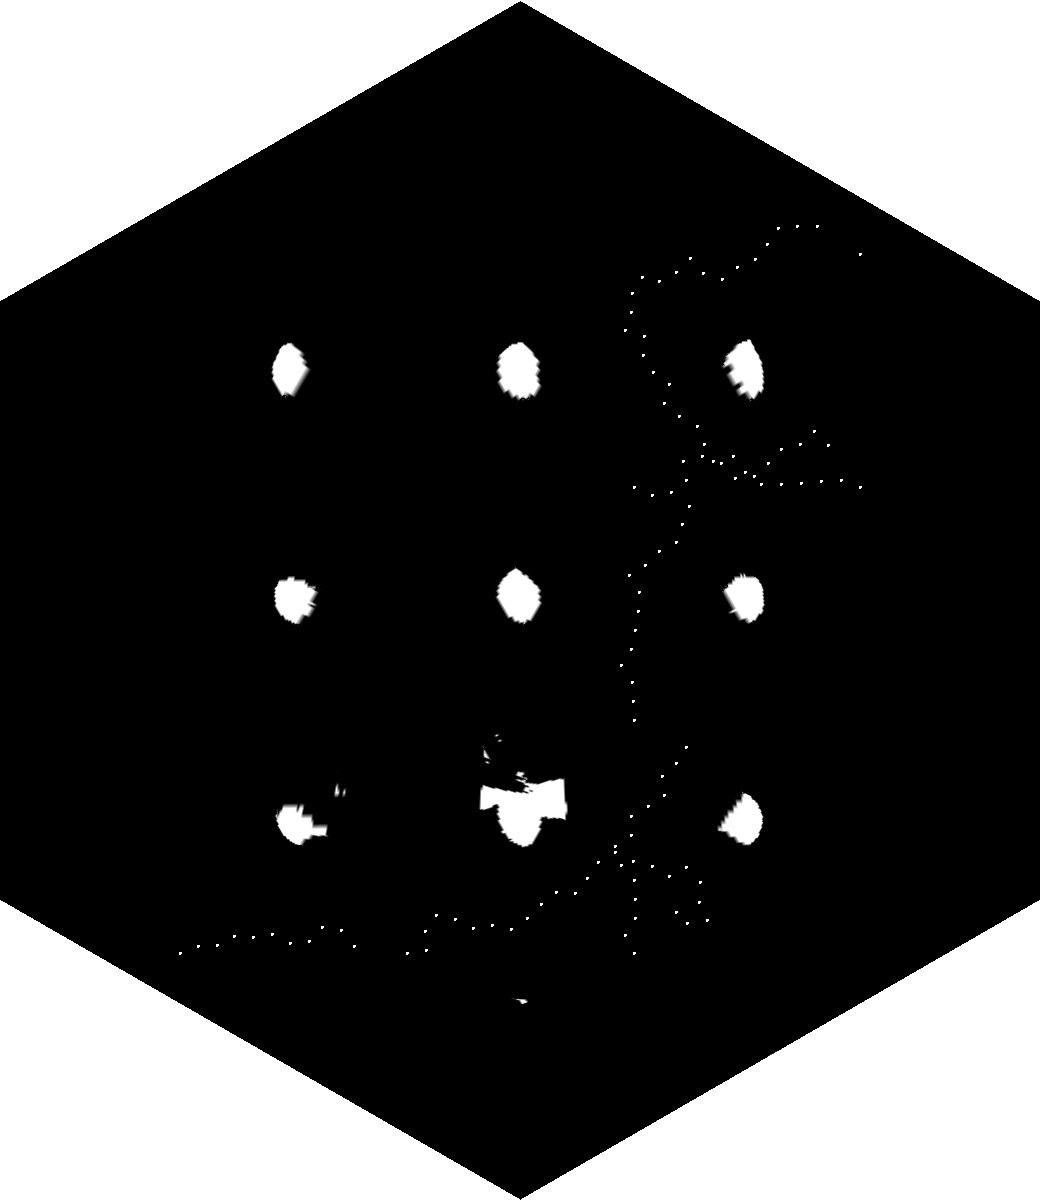
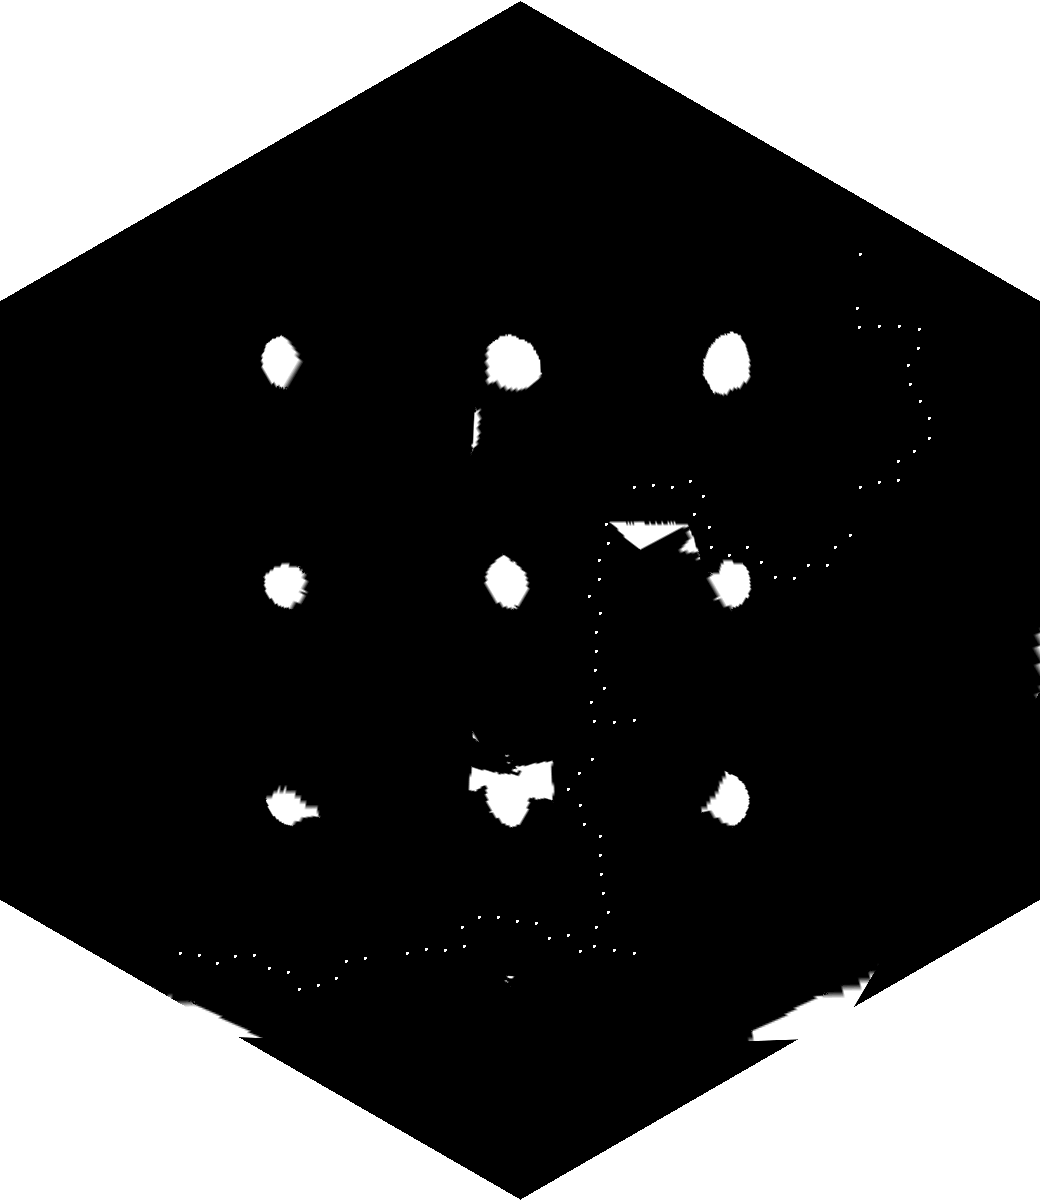
update code

diff --git a/pp/path_planning/src/planning.cpp b/pp/path_planning/src/planning.cpp
@@ -15,10 +15,10 @@
 //#define global_point_distance 1.18   
 
 #define pixel_distance 0.005
-#define random_distance 0.02
+#define random_distance 0.06
 #define choose_parent_and_rewire_distance 0.1
-#define obstacle_check_distance 0.005
-#define goal_point_reach_distance 0.04
+#define obstacle_check_distance 0.06
+#define goal_point_reach_distance 0.1
 
 using namespace std;
 
@@ -70,12 +70,12 @@ class Planning{
 
         Planning(){
             
-            global_path_pub = nh.advertise<nav_msgs::OccupancyGrid>("path",2);
-            start_goal_obstacle_point_sub = nh.subscribe("obstacle_point", 2, &Planning::StartGoalObstaclePointCallback, this);
+            global_path_pub = nh.advertise<nav_msgs::OccupancyGrid>("/path",2);
+            start_goal_obstacle_point_sub = nh.subscribe("/obstacle_point", 2, &Planning::StartGoalObstaclePointCallback, this);
             //map_sub = nh.subscribe("map", 2, &Planning::MapCallback, this);
-            path_pub = nh.advertise<nav_msgs::Path>("tracker_path", 2);
-            current_position_sub = nh.subscribe("current_position", 2, &Planning::CurrentPositionCallback, this);
-            tracker_goal_point_pub = nh.advertise<geometry_msgs::Pose>("tracker_goal_point", 2);
+            path_pub = nh.advertise<nav_msgs::Path>("/tracker_path", 2);
+            current_position_sub = nh.subscribe("/current_position", 2, &Planning::CurrentPositionCallback, this);
+            tracker_goal_point_pub = nh.advertise<geometry_msgs::Pose>("/tracker_goal_point", 2);
 /*
             for (int i = 0; i < 16; ++i){
                 global_points[i].x = (i % 4) * global_point_distance + boundary_distance_x;
@@ -209,7 +209,7 @@ class Planning{
         }
 
         void read_map(){
-            cv::Mat img = cv::imread("/home/lee/catkin_ws/src/zero_maker/computer_vision/global_map_generator/global_map.png", CV_LOAD_IMAGE_GRAYSCALE);
+            cv::Mat img = cv::imread("/home/jeongwoooh/catkin_ws/src/zero_maker/computer_vision/global_map_generator/global_map.png", CV_LOAD_IMAGE_GRAYSCALE);
             if (!img.empty()){
                 //cv::imshow("img", img);
                 //cv2::waitKey(0);
@@ -261,7 +261,7 @@ class Planning{
                 //new_img.at<cv::Vec3b>(100, 200)[1] = 0;
                 //new_img.at<cv::Vec3b>(100, 200)[1] = 0;
 
-                //cv::imwrite("/home/lee/catkin_ws/src/zero_maker/computer_vision/global_map_generator/new_map.png", img);
+                //cv::imwrite("/home/jeongowoooh/catkin_ws/src/zero_maker/computer_vision/global_map_generator/new_map.png", img);
                 //cv::waitKey(0);
             }
 
@@ -275,10 +275,9 @@ class Planning{
             current_state.pixel_y = int(msg.position.x / pixel_distance) + 600;
             
             int min_index;
-            int min_len;
+            int min_len = 100000;
             
             for (int i = 0; i < total_path_static.size(); ++i){
-                int min_len = 1000000;
                 if (distance(total_path_static[i], current_state) < min_len){
                     min_index = i;
                     min_len = distance(total_path_static[i], current_state);
@@ -290,8 +289,9 @@ class Planning{
             int goal_plus_index = 2;
 
             geometry_msgs::Pose mmsg;
-
+            cout << min_index << " " << goal_plus_index <<" " << total_path_static.size() <<endl;
             if ( min_index + goal_plus_index < total_path_static.size()){
+		    cout<<1<<endl;
                 mmsg.position.x = (total_path_static[min_index + goal_plus_index].pixel_y - 600) * pixel_distance;
                 mmsg.position.y = (520 - total_path_static[min_index + goal_plus_index].pixel_x) * pixel_distance;
                 tracker_goal_point_pub.publish(mmsg);
@@ -384,7 +384,7 @@ class Planning{
                 check = 1;
             }
 
-            cv::Mat img = cv::imread("/home/lee/catkin_ws/src/zero_maker/computer_vision/global_map_generator/global_map.png", CV_LOAD_IMAGE_GRAYSCALE);
+            cv::Mat img = cv::imread("/home/jeongwoooh/catkin_ws/src/zero_maker/computer_vision/global_map_generator/global_map.png", CV_LOAD_IMAGE_GRAYSCALE);
 
             for (int i = 0; i < total_path.size(); ++i){
                 cout << total_path[i].pixel_x << " " << total_path[i].pixel_y << " "  << total_path[i].ccost << endl;
@@ -409,7 +409,7 @@ class Planning{
                 //msg.poses.push_back(p);
             }
 
-            cv::imwrite("/home/lee/catkin_ws/src/zero_maker/computer_vision/global_map_generator/path.png", img);
+            cv::imwrite("/home/jeongwoooh/catkin_ws/src/zero_maker/computer_vision/global_map_generator/path.png", img);
 
             //path_pub.publish(msg);
 /*
@@ -612,8 +612,7 @@ int main(int argc, char *argv[]){
     while (ros::ok()){
         //planning.publish_path();
         planning.local_path_planning();
-        ros::spinOnce();
-        loop_rate.sleep();
+        ros::spin();
     }
     return 0;
 }

diff --git a/pp/path_planning/src/controller.cpp b/pp/path_planning/src/controller.cpp
@@ -114,7 +114,7 @@ class Controller{
         double x = 2*(q.w*q.z+q.x*q.y);
         double y = 1-2*(q.y*q.y+q.z*q.z);
         cur_theta = atan2(x,y);
-
+        cout << "theta: "<<cur_theta<<endl;
         rt = msg->pose[i];
         _pub.publish(rt);
     }
